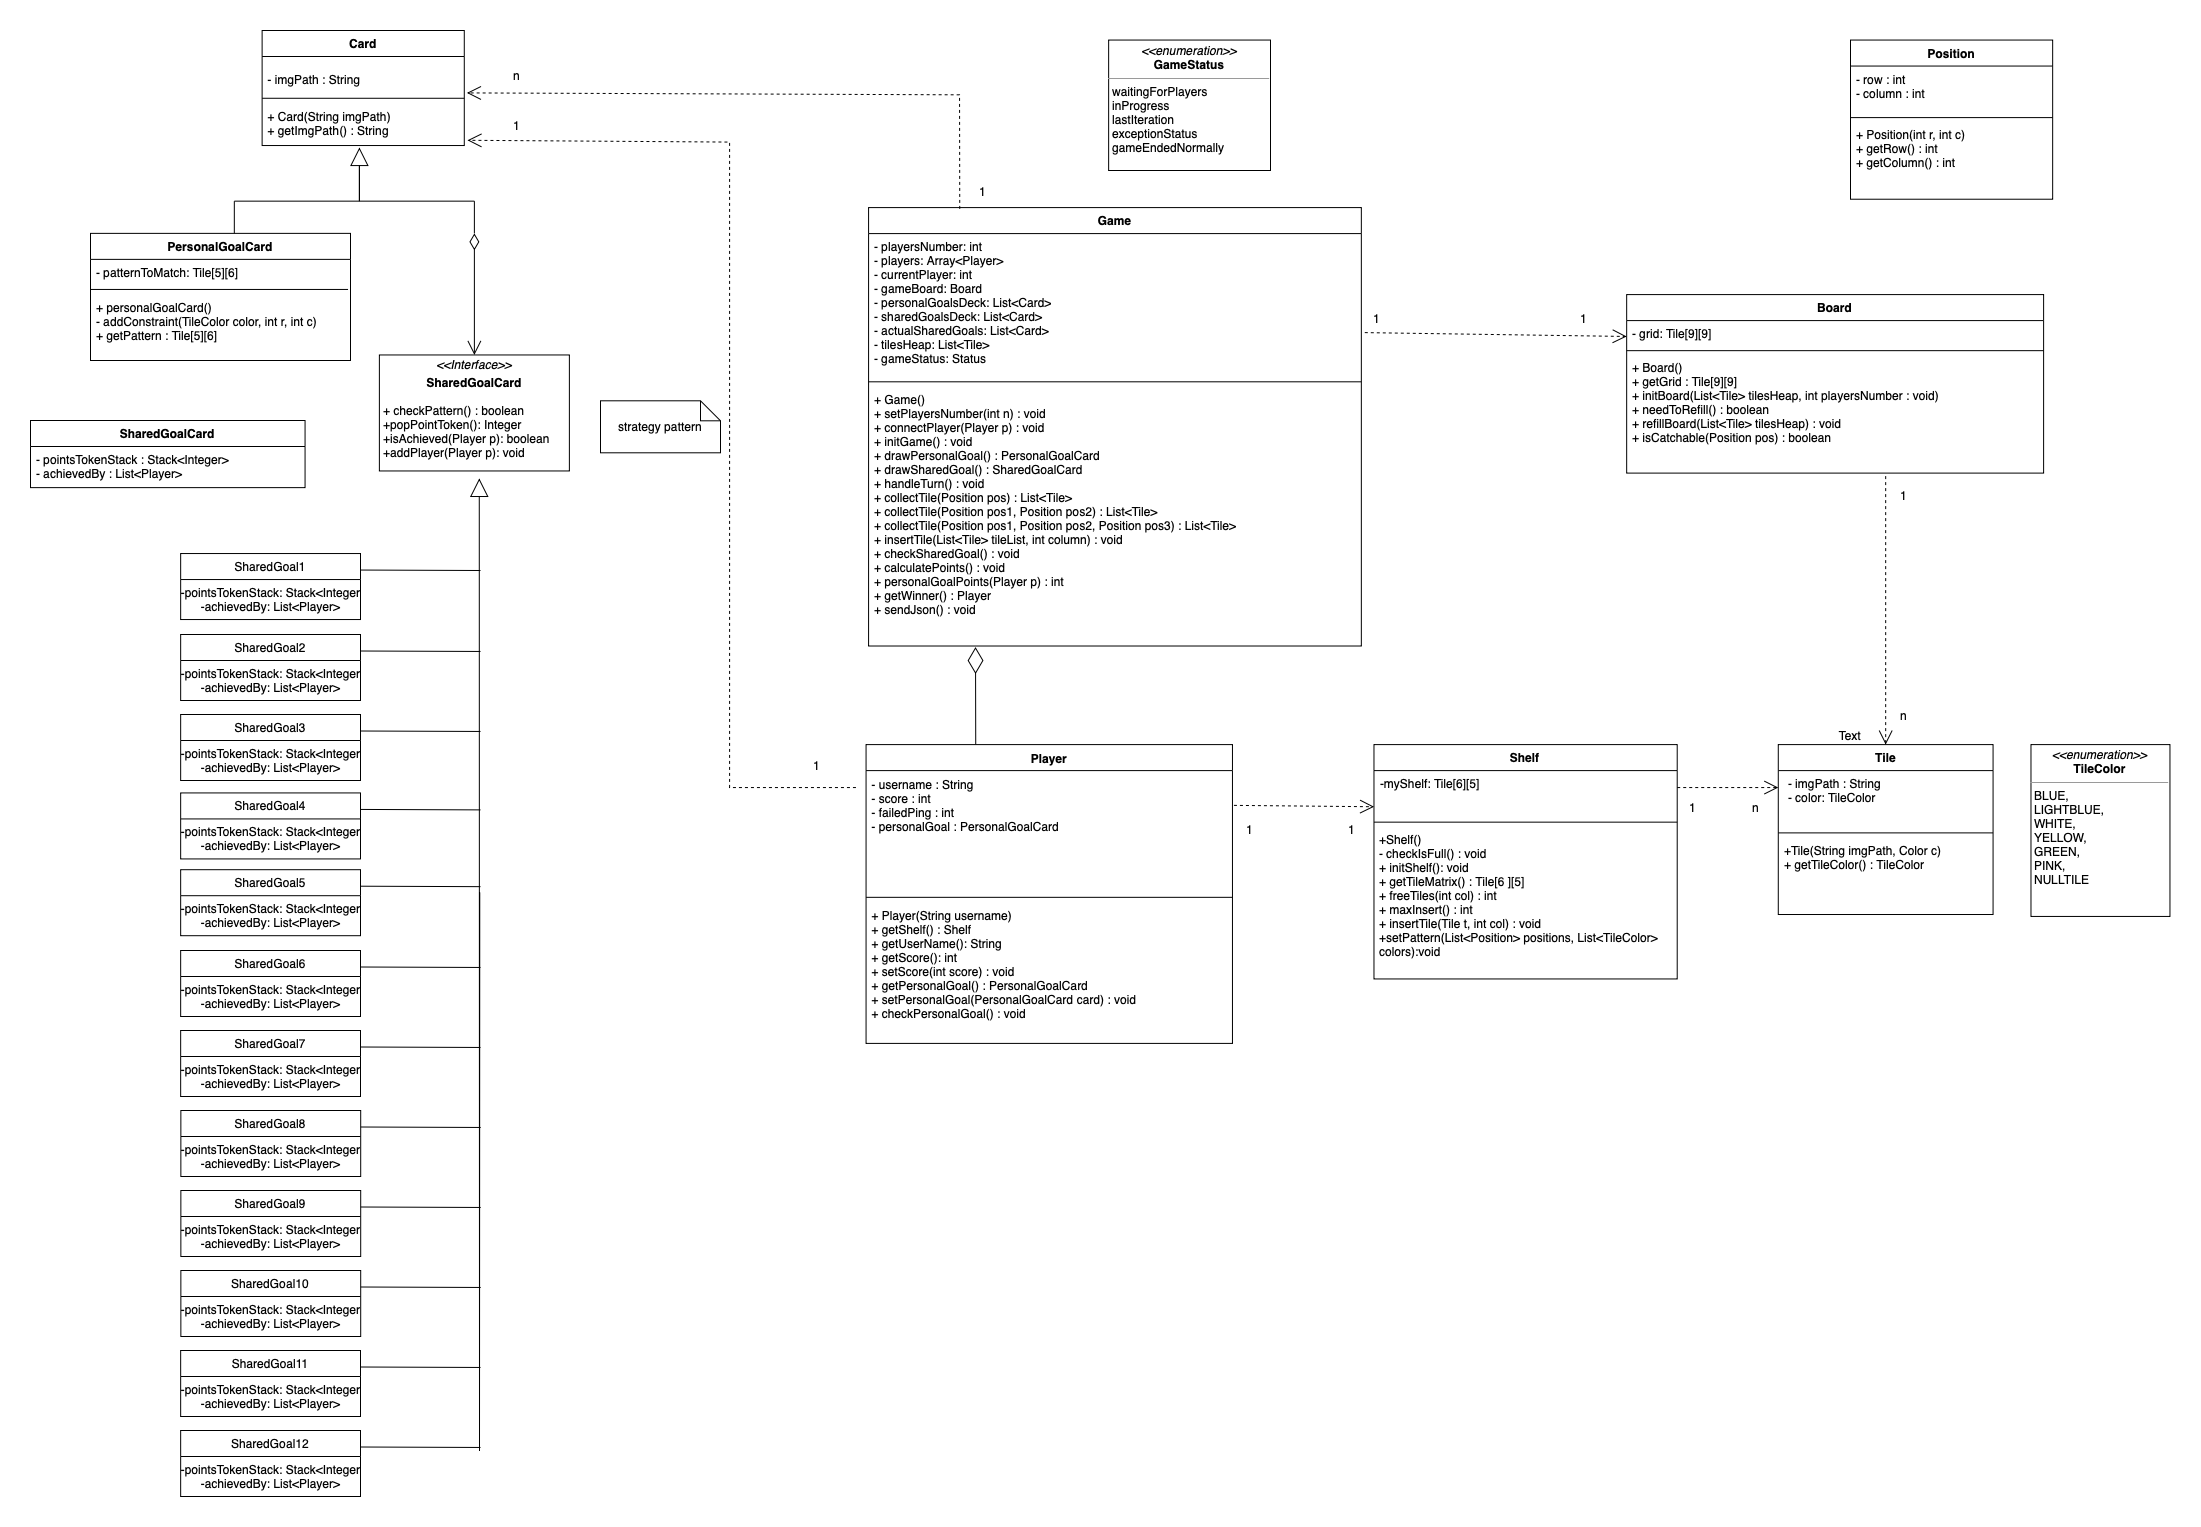
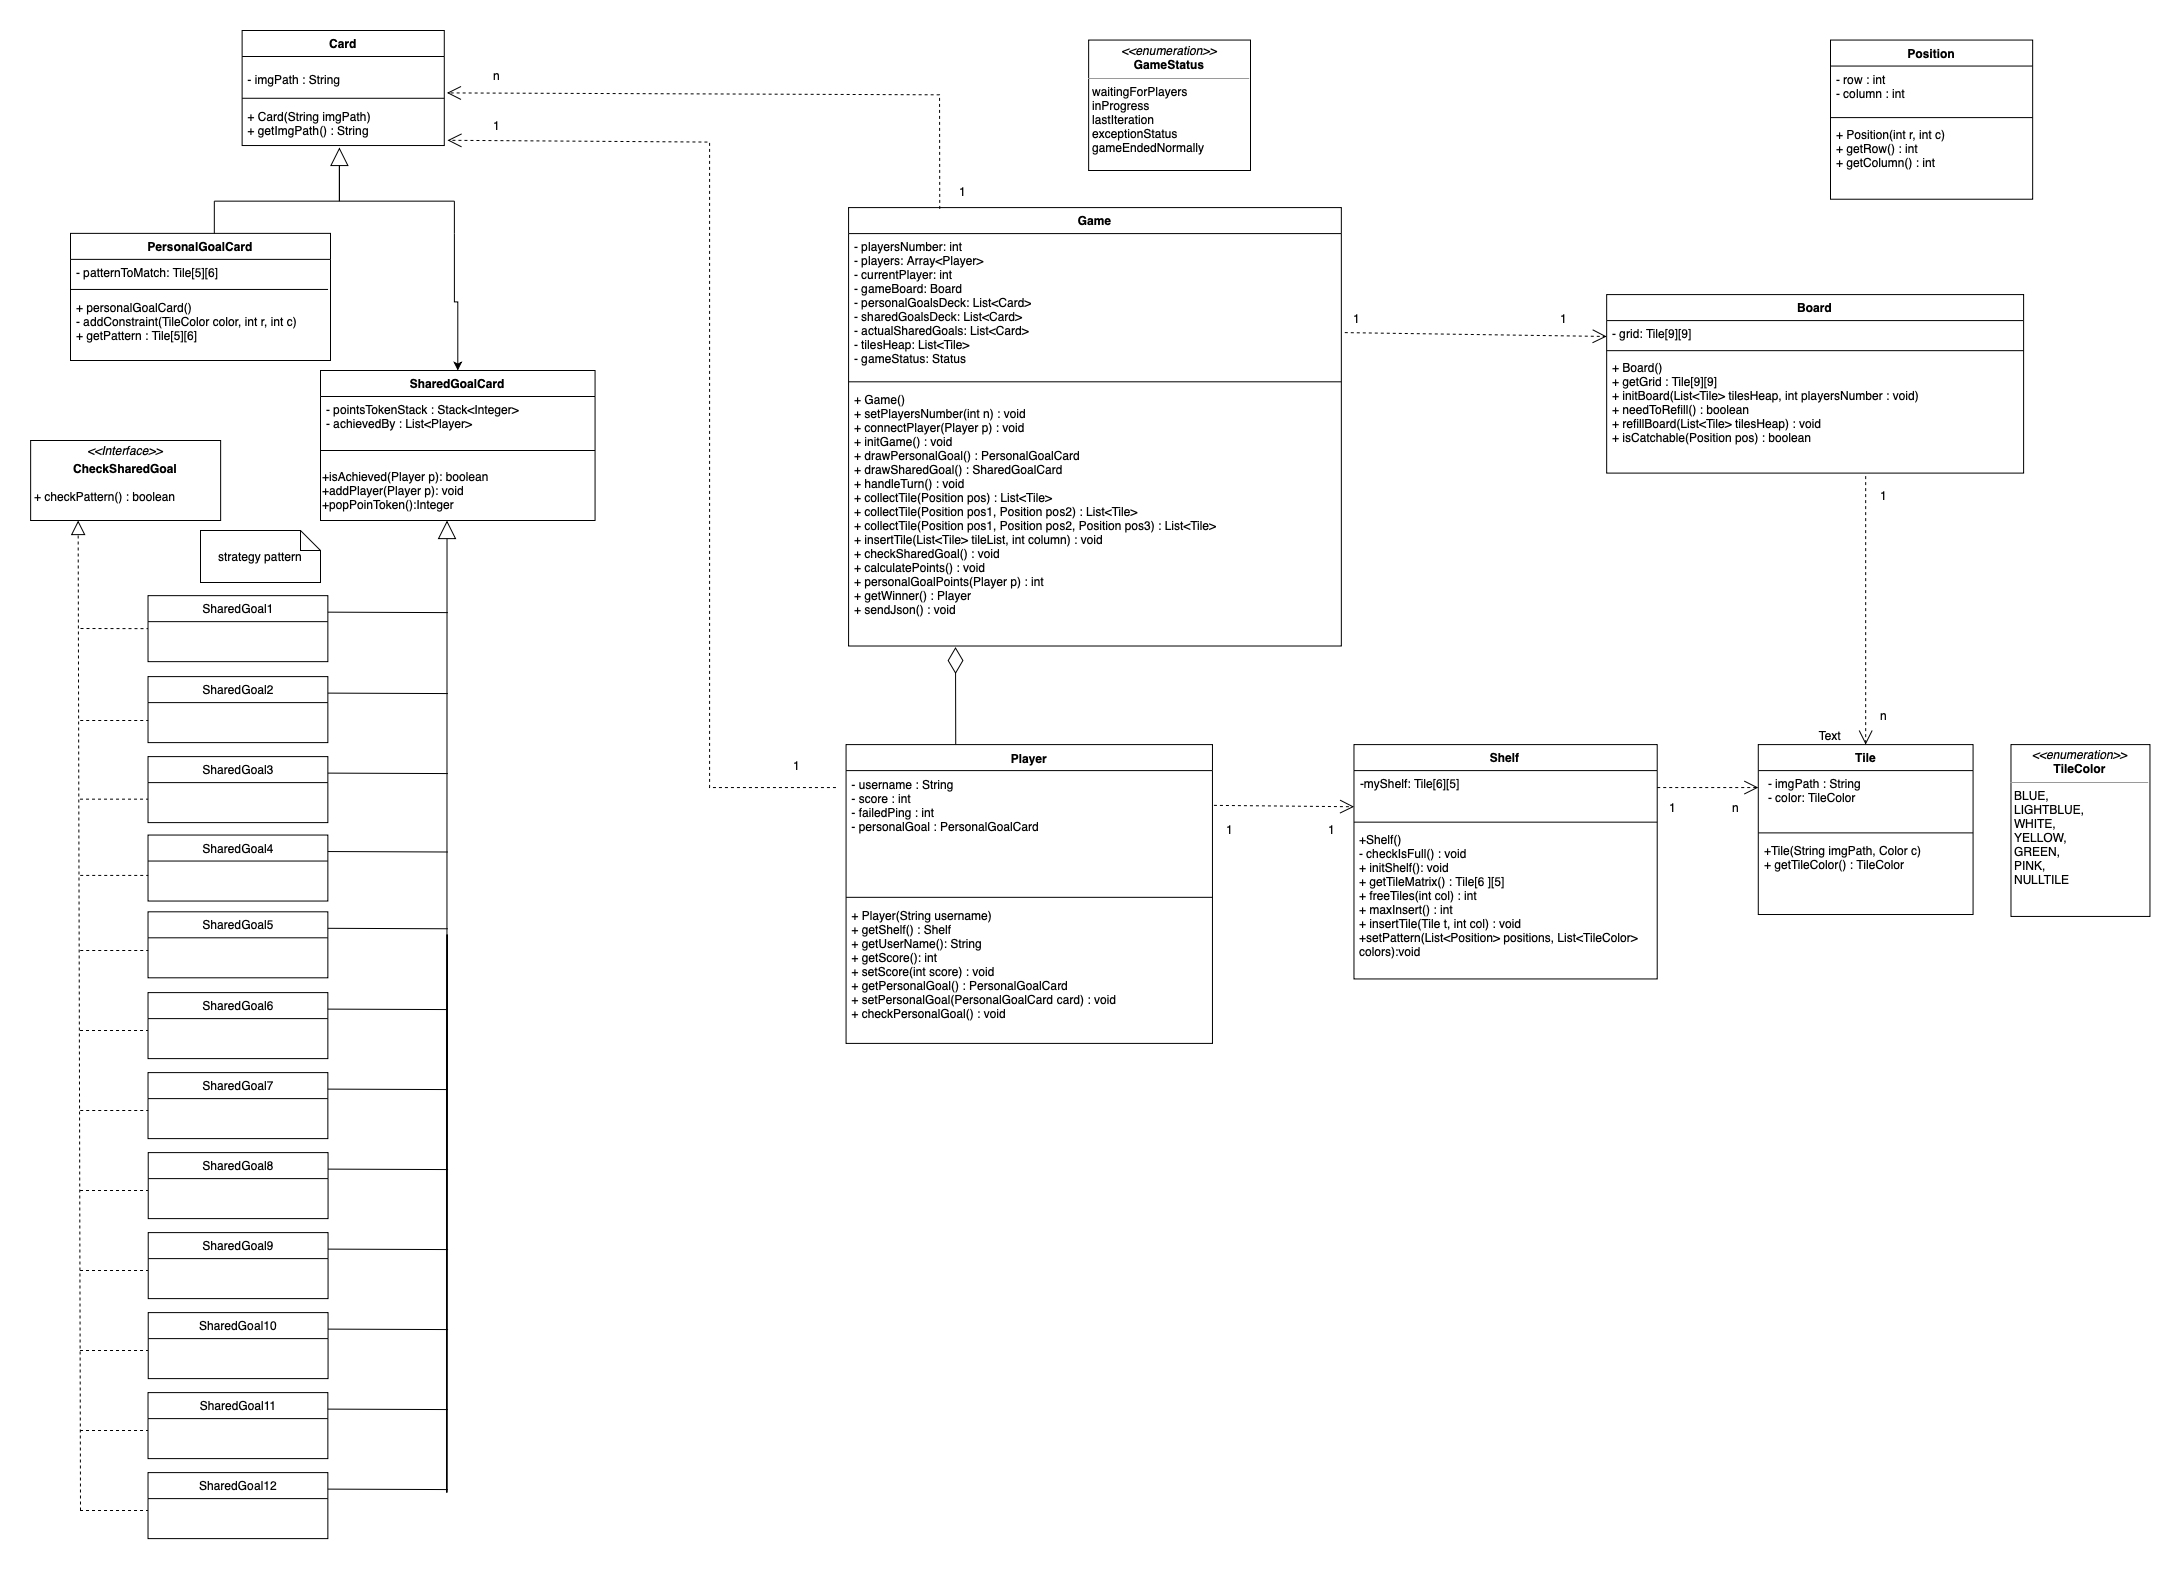
Updated board class
last static attributes definition, updated UML image to match the strategy pattern used for the shared goal

diff --git a/myShelfie-AM32/src/main/java/it/polimi/myShelfie/model/Board.java b/myShelfie-AM32/src/main/java/it/polimi/myShelfie/model/Board.java
@@ -33,12 +33,12 @@ public class Board {
     //IF SUI BORDI CONTROLLA ANCHE SE' STESSO COME SE FOSSE UN VICINO
     public boolean needToRefill() {
         boolean check = true;
-        for (int i = 0; i < 9; i++) {
-            for (int j = 0; j < 9; j++) {
+        for (int i = 0; i < BOARD_DIM; i++) {
+            for (int j = 0; j < BOARD_DIM; j++) {
                 Tile toCheck = this.grid[i][j];
                 if (this.grid[i][j].getColor() != Tile.Color.NULLTILE) {
-                    if (((this.grid[Math.min(i + 1, 8)][j].getColor() != Tile.Color.NULLTILE) &&  this.grid[Math.min(i + 1, 8)][j] != toCheck) ||
-                            ((this.grid[i][Math.min(j + 1, 8)].getColor() != Tile.Color.NULLTILE) && this.grid[i][Math.min(j + 1, 8)] != toCheck) ||
+                    if (((this.grid[Math.min(i + 1, BOARD_DIM-1)][j].getColor() != Tile.Color.NULLTILE) &&  this.grid[Math.min(i + 1, BOARD_DIM-1)][j] != toCheck) ||
+                            ((this.grid[i][Math.min(j + 1, BOARD_DIM-1)].getColor() != Tile.Color.NULLTILE) && this.grid[i][Math.min(j + 1, BOARD_DIM-1)] != toCheck) ||
                             ((this.grid[Math.max(i - 1, 0)][j].getColor() != Tile.Color.NULLTILE) && this.grid[Math.max(i - 1, 0)][j] != toCheck) ||
                             (( this.grid[i][Math.max(j - 1, 0)].getColor() != Tile.Color.NULLTILE) && this.grid[i][Math.max(j - 1, 0)] != toCheck)) {
                         check = false;
@@ -62,8 +62,8 @@ public class Board {
         }
         Tile toCheck = this.grid[row][column];
         // might need to be modified
-        return  ((this.grid[Math.min(row + 1, 8)][column].getColor() == Tile.Color.NULLTILE) &&  this.grid[Math.min(row + 1, 8)][column] != toCheck) ||
-                ((this.grid[row][Math.min(column + 1, 8)].getColor() == Tile.Color.NULLTILE) && this.grid[row][Math.min(column + 1, 8)] != toCheck) ||
+        return  ((this.grid[Math.min(row + 1, BOARD_DIM)][column].getColor() == Tile.Color.NULLTILE) &&  this.grid[Math.min(row + 1, BOARD_DIM)][column] != toCheck) ||
+                ((this.grid[row][Math.min(column + 1, BOARD_DIM)].getColor() == Tile.Color.NULLTILE) && this.grid[row][Math.min(column + 1, BOARD_DIM)] != toCheck) ||
                 ((this.grid[Math.max(row - 1, 0)][column].getColor() == Tile.Color.NULLTILE) && this.grid[Math.max(row - 1, 0)][column] != toCheck) ||
                 (( this.grid[row][Math.max(column - 1, 0)].getColor() == Tile.Color.NULLTILE) && this.grid[row][Math.max(column - 1, 0)] != toCheck);
     }
